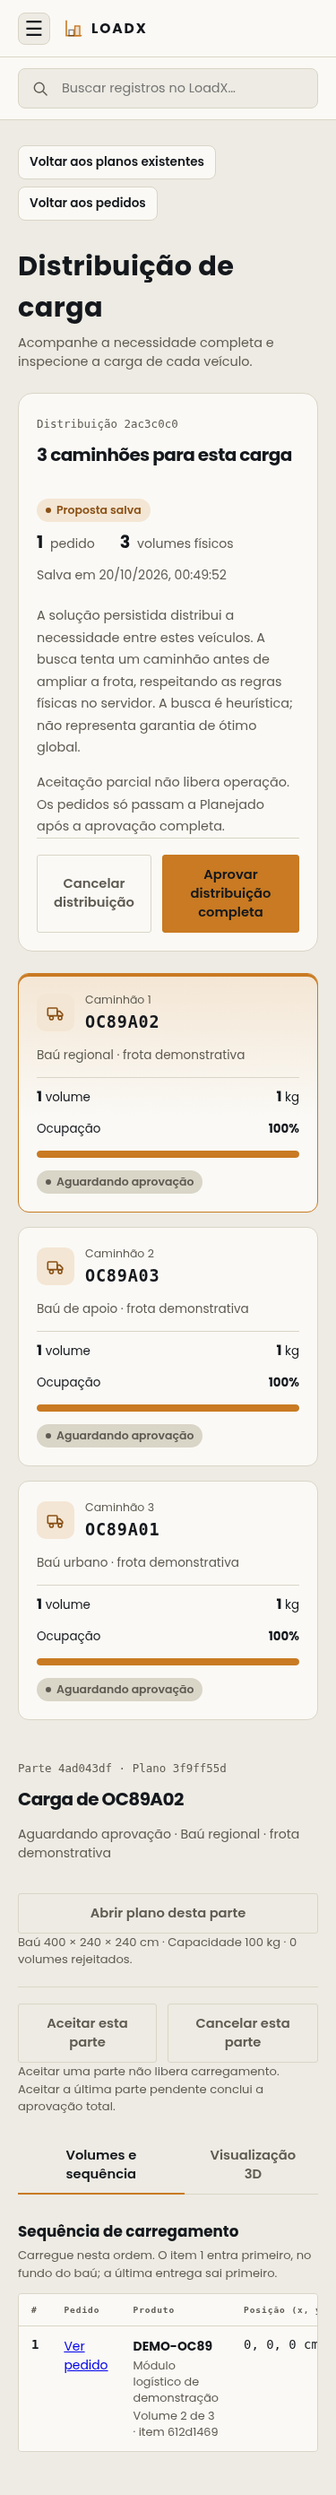
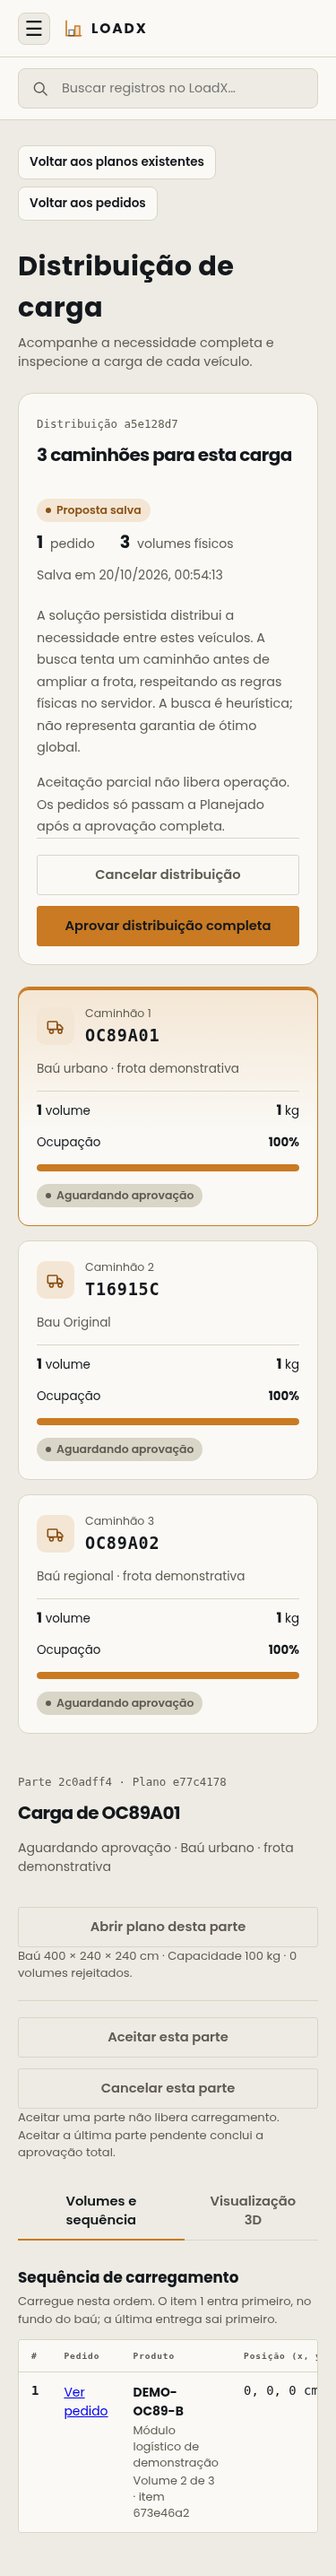
style(oc89): melhora ações no mobile e atualiza capturas

diff --git a/frontend/src/features/load-planning/pages/DistributionPage.css b/frontend/src/features/load-planning/pages/DistributionPage.css
@@ -49,3 +49,12 @@
   .distribution-vehicle { padding: 20px; }
 }
 @media (prefers-reduced-motion: reduce) { .distribution-vehicle { transition: none; } }
+@media (max-width: 600px) {
+  .distribution-overview .entity-form-actions,
+  .distribution-part-actions .entity-form-actions { display: grid; grid-template-columns: minmax(0, 1fr); }
+  .distribution-overview .entity-form-actions button,
+  .distribution-part-actions .entity-form-actions button { width: 100%; justify-content: center; min-height: 44px; }
+}
+fieldset.distribution-vehicles { border: 0; padding: 0; min-width: 0; }
+fieldset.distribution-confirm { border: 0; border-top: 1px solid var(--line); padding: 16px 0; min-width: 0; }
+.distribution-success { display: block; }
